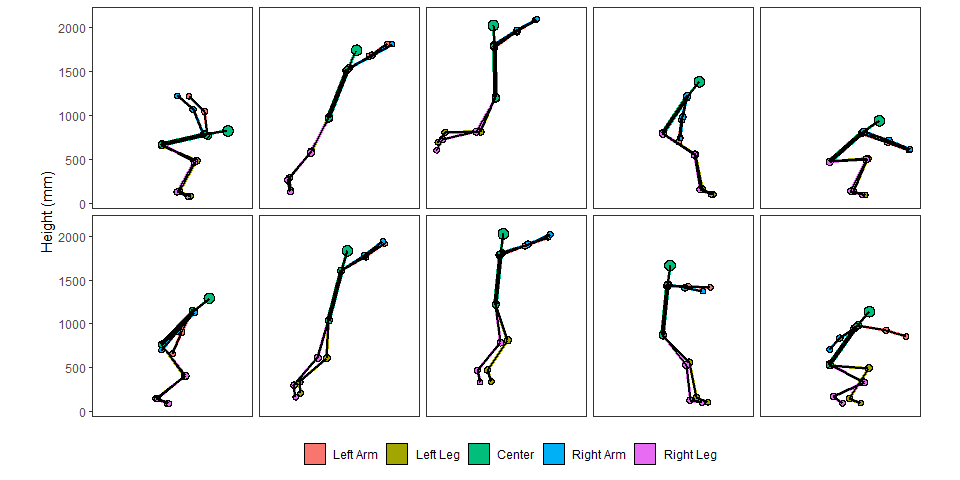
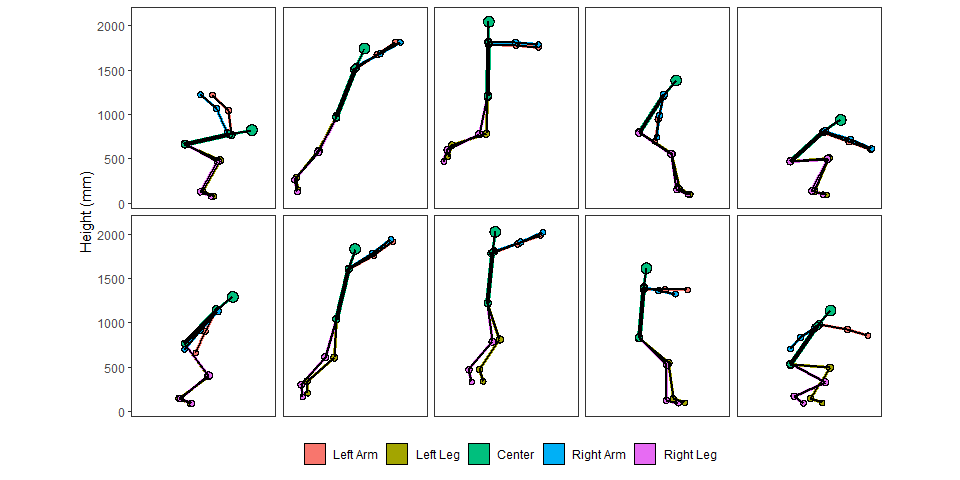
reknit with updates

diff --git a/README.md b/README.md
@@ -458,17 +458,17 @@ mocapr_data %>%
   group_by(movement_nr) %>% 
   
   # Add jump phases and events
-  group_modify(~add_jump_events(.x)) %>% 
+  group_modify(~add_phases_jump(.x)) %>% 
   group_modify(~project_full_body_to_AP(.x)) %>%
   
   # Keep only single frame events and highest position in jump
   filter(
-    phase %in% c(2, 4, 6, 8) | CGY == max(CGY)) %>% 
+    phase_b %in% c(2, 4, 6, 8, 10)) %>% 
   
   animate_anatomical(
     planes = "F",             # Show only the forward plane, change to "R for the forward plane. Remove for both planes
     row_facets = movement_nr, # Facet the two movements in two rows
-    col_facets = phase,       # Facet the phases in columns
+    col_facets = phase_b,       # Facet the phases in columns
     return_plot = TRUE,       # Return a plot
 
     # Just styling options
@@ -476,8 +476,6 @@ mocapr_data %>%
     line_colored_size = 1.2,
     line_black_size = 1,
     line_black_alpha = 1)
-#> This function has been deprecated since mocapr version 1.9006 available on Github since 2019-12-01. Consider using add_phases_jump() instead
-#> This function has been deprecated since mocapr version 1.9006 available on Github since 2019-12-01. Consider using add_phases_jump() instead
 ```
 
 <img src="man/figures/README-unnamed-chunk-2-1.png" width="100%" />
